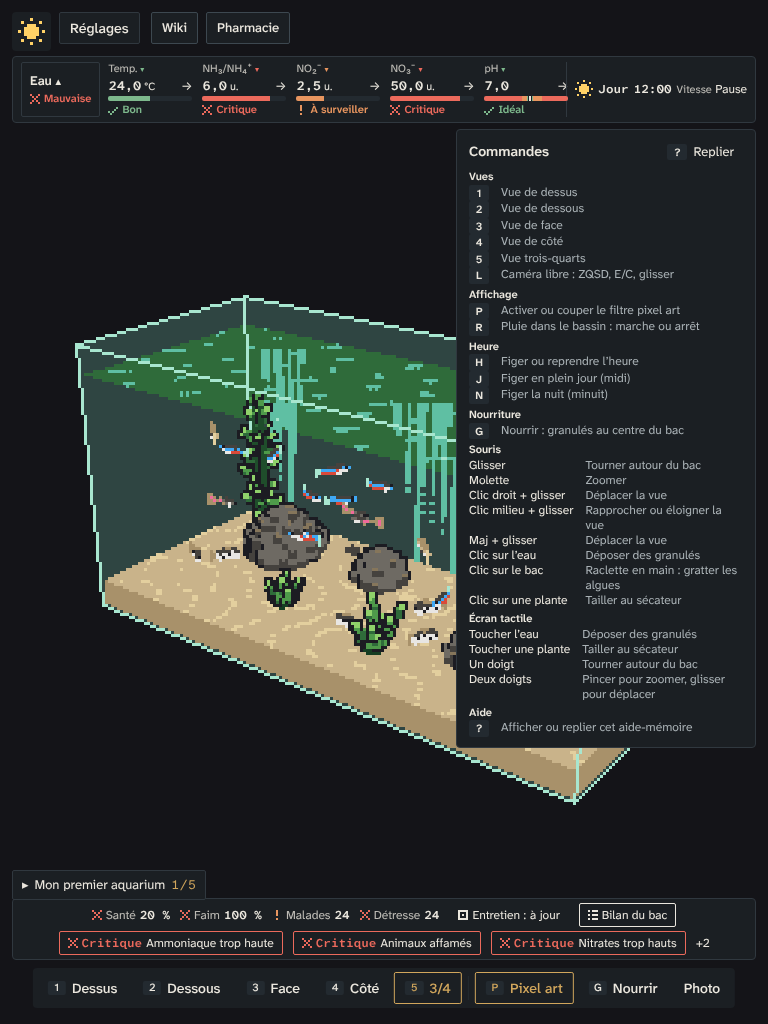
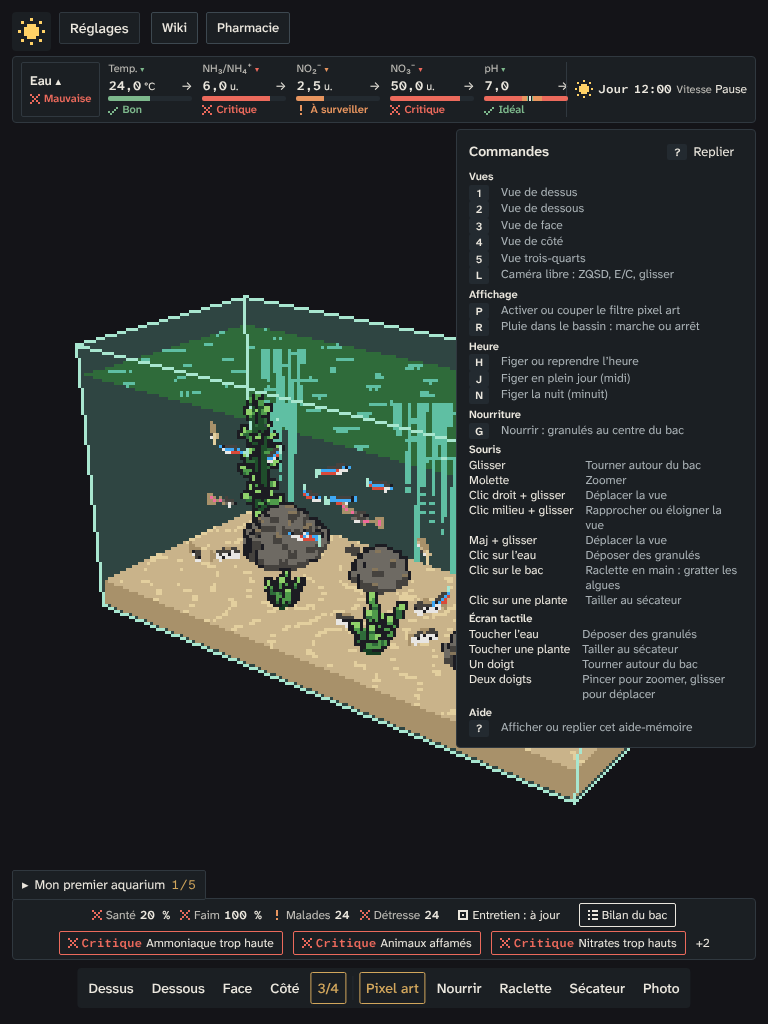
captures(c268): 167 captures

Changed region(s): [[0.3438, 0.9375, 0.9375, 0.9688], [0.1875, 0.9375, 0.3125, 0.9688], [0.0938, 0.9375, 0.1562, 0.9688]]

diff --git a/captures/latest/SOURCE.md b/captures/latest/SOURCE.md
@@ -1,7 +1,2 @@
-# Source c267
-
-- Branche : cycle/c267-brancher-fenetre-reglages
-- PR : #758
-- Commit : 66faa3f2a7ea20a5988cfd64577c14803b050115
-- Graine : celle de captures.spec.ts (défaut)
-- Durée : 166 tests en 5,8 min
+Cycle 268 — branche cycle/c268-barre-outils-categorie, PR #760, commit 202e4c3, graine par défaut des captures, 166 tests en 5,7 min.
+146 captures identiques à c267 à l'octet, 21 différentes (barre du bas ou fenêtre des réglages).

diff --git a/captures/c268/SOURCE.md b/captures/c268/SOURCE.md
@@ -1,0 +1,2 @@
+Cycle 268 — branche cycle/c268-barre-outils-categorie, PR #760, commit 202e4c3, graine par défaut des captures, 166 tests en 5,7 min.
+146 captures identiques à c267 à l'octet, 21 différentes (barre du bas ou fenêtre des réglages).
